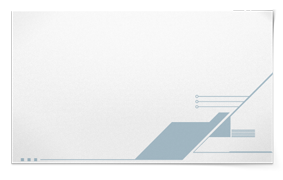
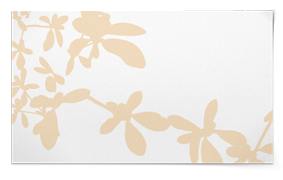
new business card images

Changed region(s): [[0.0283, 0.0556, 0.9894, 0.9167], [0.9329, 0.6111, 0.9894, 0.75], [0.9046, 0.4167, 0.9611, 0.5]]

diff --git a/QuizIn/QuizIn/Source/Classes/UI/Screens/HomeTabs/SettingsView/QISettingsView.m b/QuizIn/QuizIn/Source/Classes/UI/Screens/HomeTabs/SettingsView/QISettingsView.m
@@ -160,7 +160,8 @@
                                                              _profileImageView,
                                                              _cardFirstName,
                                                              _cardLastName,
-                                                             _cardTitle);
+                                                             _cardTitle,
+                                                             _logoutButton);
     NSArray *hProfileImageConstraints =
     [NSLayoutConstraint constraintsWithVisualFormat:@"H:|-20-[_profileImageView(==93)]"
                                             options:0
@@ -187,6 +188,13 @@
                                             metrics:nil
                                               views:cardViews];
     
+    NSString *hTitle= @"H:[_profileImageView]-5-[_cardTitle]-|";
+    NSArray *hTitleConstraints =
+    [NSLayoutConstraint constraintsWithVisualFormat:hTitle
+                                            options:0
+                                            metrics:nil
+                                              views:cardViews];
+    
     NSString *vCardFirstName = @"V:|-25-[_cardFirstName]";
     NSArray *vCardFirstNameConstraints =
     [NSLayoutConstraint constraintsWithVisualFormat:vCardFirstName
@@ -204,13 +212,20 @@
                                             metrics:nil
                                               views:cardViews];
     
+    NSLayoutConstraint *hCardLogoutConstraint =
+    [NSLayoutConstraint constraintWithItem:_logoutButton attribute:NSLayoutAttributeCenterX relatedBy:NSLayoutRelationEqual toItem:_businessCardView attribute:NSLayoutAttributeCenterX multiplier:1.0f constant:0.0f];
+    
+    NSLayoutConstraint *vCardLogoutConstraint =
+    [NSLayoutConstraint constraintWithItem:_logoutButton attribute:NSLayoutAttributeBottom relatedBy:NSLayoutRelationEqual toItem:_businessCardView attribute:NSLayoutAttributeBottom multiplier:1.0f constant:-30.0f];
+ 
     
     [self.viewConstraints addObjectsFromArray:hProfileImageConstraints];
     [self.viewConstraints addObjectsFromArray:vProfileImageConstraints];
     [self.viewConstraints addObjectsFromArray:hFirstNameConstraints];
     [self.viewConstraints addObjectsFromArray:hLastNameConstraints];
+    [self.viewConstraints addObjectsFromArray:hTitleConstraints];
     [self.viewConstraints addObjectsFromArray:vCardFirstNameConstraints];
-    [self.viewConstraints addObjectsFromArray:@[vCardLastNameConstraint]];
+    [self.viewConstraints addObjectsFromArray:@[vCardLastNameConstraint,hCardLogoutConstraint,vCardLogoutConstraint]];
     [self.viewConstraints addObjectsFromArray:vCardCompanyConstraints];
     
     [self addConstraints:self.viewConstraints];
@@ -255,6 +270,7 @@
   profileImageView.showActivityIndicator = YES;
   profileImageView.crossfadeDuration = 0.3f;
   profileImageView.crossfadeImages = YES;
+  profileImageView.image = [UIImage imageNamed:@"placeholderHead"];
   return profileImageView;
 }
 

diff --git a/QuizIn/QuizIn/Source/Classes/UI/QIApplicationViewController.m b/QuizIn/QuizIn/Source/Classes/UI/QIApplicationViewController.m
@@ -43,8 +43,8 @@
   [super viewDidLoad];
   
   //SWTICH FOR OFFLINE USAGE
-  [self.authController beginAuthenticationAttempt];
-  //[self authControllerAccount:nil didAuthenticate:nil];
+  //[self.authController beginAuthenticationAttempt];
+  [self authControllerAccount:nil didAuthenticate:nil];
 }
 
 - (void)didReceiveMemoryWarning {
@@ -72,16 +72,13 @@
               didAuthenticate:(id<AKAuthControl>)authController {
   [LinkedIn updateAuthenticatedUserWithOnCompletion:^(QIPerson *authenticatedUser, NSError *error) {
     // TODO(rcacheaux): Check if exists.
-    self.loggedInUser = [LinkedIn authenticatedUser]; 
+    self.loggedInUser = [LinkedIn authenticatedUser];
     [self.loginViewController.view removeFromSuperview];
     [self.loginViewController removeFromParentViewController];
     
     self.tabViewController = [self newTabBarController];
     [self addChildViewController:self.tabViewController];
     [self.view addSubview:self.tabViewController.view];
-    //self.drawerController = [self newDrawerController];
-    //[self addChildViewController:self.drawerController];
-    //[self.view addSubview:self.drawerController.view];
   }];
 }
 

diff --git a/QuizIn/QuizIn/Source/Classes/Networking/LinkedIn.m b/QuizIn/QuizIn/Source/Classes/Networking/LinkedIn.m
@@ -35,7 +35,25 @@ static QIPerson *authenticatedUser;
 @implementation LinkedIn
 
 + (QIPerson *)authenticatedUser {
-  return [authenticatedUser copy];
+ 
+  //todo rkuhlman offline/online
+  
+  //offline
+  QIPerson *person = [[QIPerson alloc] init];
+  person.personID = @"12345";
+  person.firstName = @"Test";
+  person.lastName = @"User";
+  person.formattedName = @"Test User";
+  person.industry = @"Test Industry";
+  person.pictureURL = @"";
+  person.location = nil;
+  person.positions = @[@"Test Position 0",@"Test Position 1"];
+  person.numberOfConnections = 269;
+  person.publicProfileURL = @"http://www.google.com";
+  return person;
+  
+  //online
+  //return [authenticatedUser copy];
 }
 
 + (void)updateAuthenticatedUserWithOnCompletion:(LIAuthenticatedUserResponse)onCompletion {

diff --git a/QuizIn/QuizIn/Source/Classes/UI/Screens/HomeTabs/SettingsView/QISettingsViewController.m b/QuizIn/QuizIn/Source/Classes/UI/Screens/HomeTabs/SettingsView/QISettingsViewController.m
@@ -15,7 +15,7 @@
 {
     self = [super initWithNibName:nibNameOrNil bundle:nibBundleOrNil];
     if (self) {
-        _loggedInUser = [LinkedIn authenticatedUser];
+      _loggedInUser = [LinkedIn authenticatedUser];
     }
     return self;
 }
@@ -31,6 +31,12 @@
   [self.settingsView setLastName:self.loggedInUser.lastName]; 
   [self.settingsView setTitle:self.loggedInUser.industry];
   [self.settingsView setProfileImageURL:[NSURL URLWithString:self.loggedInUser.pictureURL]];
+  [self.settingsView.logoutButton addTarget:self action:@selector(logout) forControlEvents:UIControlEventTouchUpInside];
+}
+
+#pragma mark Actions
+- (void) logout{
+  NSLog(@"logout");
 }
 
 - (void)didReceiveMemoryWarning

diff --git a/QuizIn/QuizIn/Source/Classes/UI/Screens/Quizzes/BusinessCard/QIBusinessCardQuizView.m b/QuizIn/QuizIn/Source/Classes/UI/Screens/Quizzes/BusinessCard/QIBusinessCardQuizView.m
@@ -637,7 +637,7 @@
 }
 
 -(UIImageView *)newBusinessCardBackground{
-  int imagePicker = arc4random_uniform(5);
+  int imagePicker = arc4random_uniform(7);
   DDLogInfo(@"%d",imagePicker);
   NSString *imageName = @"";
   switch (imagePicker) {
@@ -655,6 +655,12 @@
       break;
     case 4:
       imageName = @"cardquiz_businesscard_v4";
+      break;
+    case 5:
+      imageName = @"cardquiz_businesscard_v5";
+      break;
+    case 6:
+      imageName = @"cardquiz_businesscard_v6";
       break;
     default:
       break;

diff --git a/QuizIn/QuizIn/Source/Classes/UI/Screens/HomeTabs/StatsView/QIStatsData.m b/QuizIn/QuizIn/Source/Classes/UI/Screens/HomeTabs/StatsView/QIStatsData.m
@@ -48,6 +48,8 @@
     _userID = ID;
     _ranks = [QIRankDefinition getRankDelineations];
     NSUserDefaults *prefs = [NSUserDefaults standardUserDefaults];
+    //todo rkuhlman offline usage
+    _userID = @"12345";//
     if (![prefs objectForKey:_userID]){
       [self setUpStats]; 
     }

diff --git a/QuizIn/QuizIn/Source/Classes/UI/Screens/HomeTabs/Home/QIHomeViewController.m b/QuizIn/QuizIn/Source/Classes/UI/Screens/HomeTabs/Home/QIHomeViewController.m
@@ -131,7 +131,7 @@ typedef NS_ENUM(NSInteger, QIFilterType) {
 }
 
 - (void)goToStore:(UIButton *)sender{
-  [self.parentTabBarController setSelectedIndex:3];
+  [self.parentTabBarController setSelectedIndex:4];
 }
 
 - (void)groupPicker:(UIButton *)sender{
